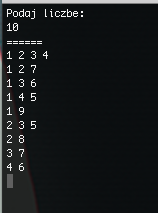
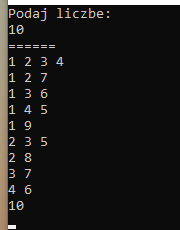
poprawa kodu i prezentacji | ZAiSD

Changed region(s): [[0.0, 0.0, 1.0, 1.0], [0.1772, 0.5634, 0.2785, 0.6479]]

diff --git a/Prezentacja_2_ZAISD/prezentacja.tex b/Prezentacja_2_ZAISD/prezentacja.tex
@@ -116,7 +116,7 @@
 		cin.get();
 		cout << "======" << endl;
 	
-		for(int i = 1; i < C; i++) {
+		for(int i = 1; i <= C; i++) {
 			tablica[0] = i;
 			podzial(C, 0, tablica, 0);
 		}
@@ -133,12 +133,16 @@
 	\frametitle{Wykonanie kodu}
 		\begin{columns}
 			\column{.5\textwidth}
+			\begin{center}		
 			\includegraphics[width=.6\linewidth]{source/1.png}
 			\captionof{figure}{Wynik dla liczby 6.}
+			\end{center}
 			
 			\column{.5\textwidth}
+			\begin{center}
 			\includegraphics[width=.6\linewidth]{source/2.png}
   			\captionof{figure}{Wynik dla liczby 10.}
+  			\end{center}
 
 		\end{columns}
 	\end{frame}

diff --git a/Prezentacja_2_ZAISD/podzial.cpp b/Prezentacja_2_ZAISD/podzial.cpp
@@ -29,7 +29,7 @@ int main(){
 	cin.get();
 	cout << "======" << endl;
 
-    for(int i = 1; i < C; i++) {
+    for(int i = 1; i <= C; i++) {
         tablica[0] = i;
         podzial(C, 0, tablica, 0);
     }
